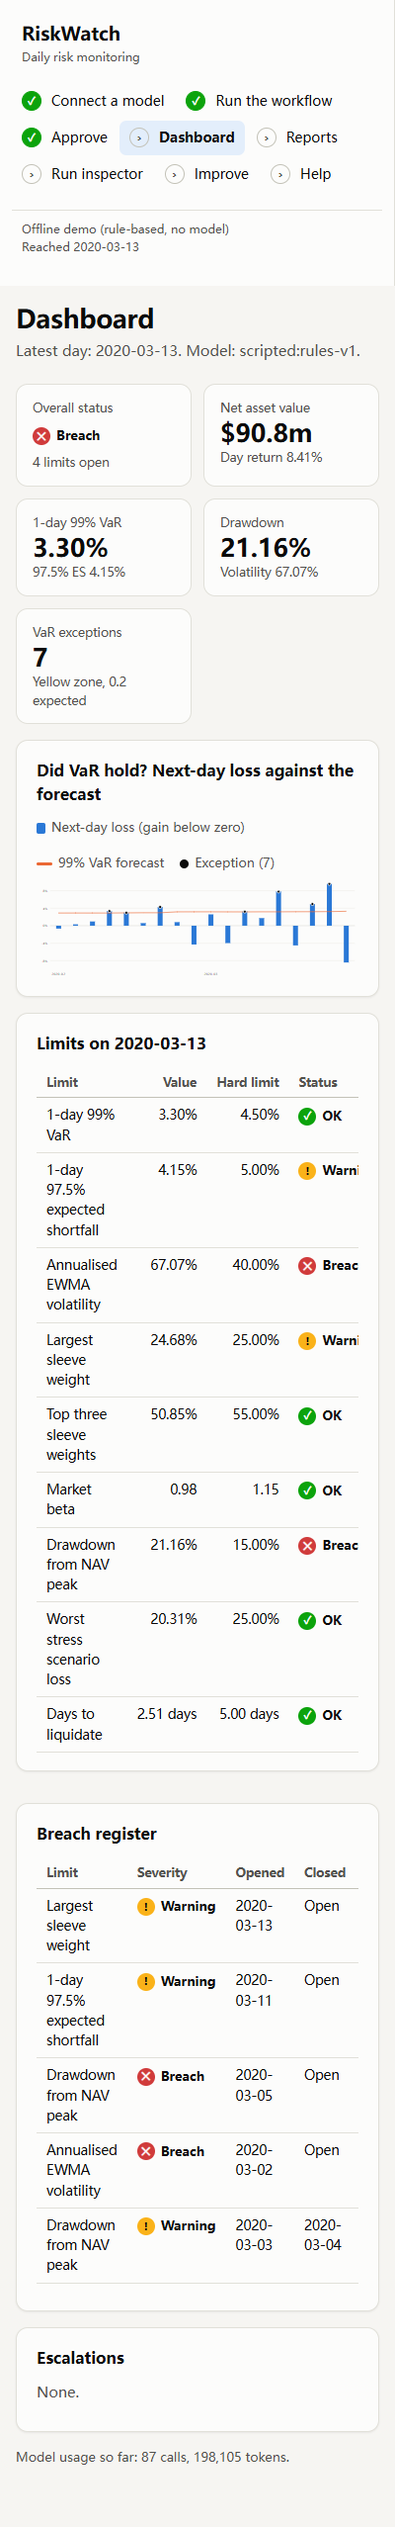
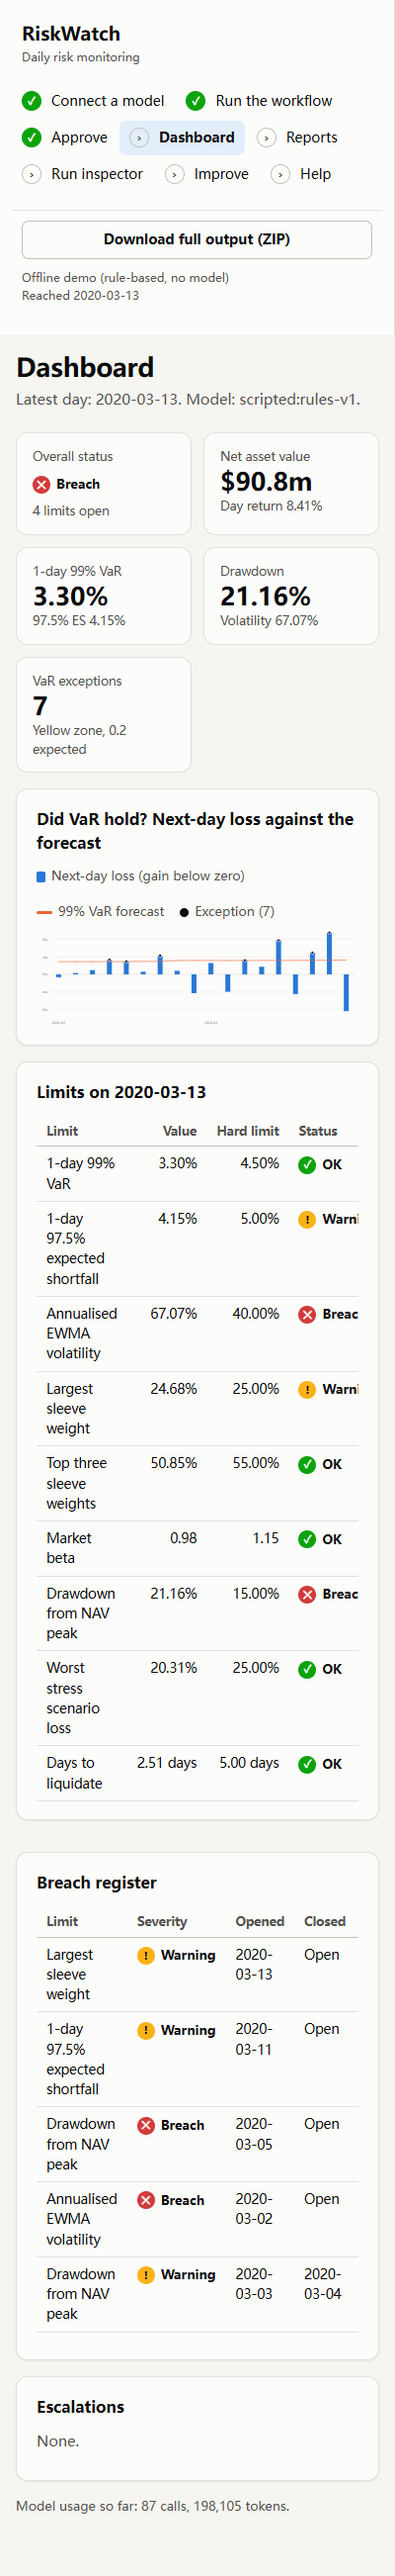
Keep Download full output in the sidebar on every page
It was only on the run-finished panel and the Reports page, so it disappeared once you opened the
Dashboard. Before any run it shows greyed out with a hint. The browser check now downloads from the
sidebar while on the Dashboard.

diff --git a/src/riskwatch/web/static/app.js b/src/riskwatch/web/static/app.js
@@ -147,8 +147,14 @@ function renderNav() {
     ...results.map(([href, label]) => item(href, label, h("span", { class: "step-dot" }, "›"))),
     h("div", { class: "nav-label" }, "More"),
     ...more.map(([href, label]) => item(href, label, h("span", { class: "step-dot" }, "›"))));
+  // Always on screen, so the full output is one click away from any page once a run exists.
+  const download = ran
+    ? h("a", { class: "btn side-download", href: "/api/download", id: "side-download" }, "Download full output (ZIP)")
+    : h("span", { class: "btn side-download off", id: "side-download", "aria-disabled": "true", title: "Available after a run" },
+      "Download full output (ZIP)");
   const foot = document.getElementById("side-foot");
-  foot.replaceChildren(h("div", {}, s ? s.backend : ""), s && s.last_day ? h("div", {}, `Reached ${s.last_day}`) : "");
+  foot.replaceChildren(download, ran ? "" : h("div", { class: "side-hint" }, "Available after a run"),
+    h("div", {}, s ? s.backend : ""), s && s.last_day ? h("div", {}, `Reached ${s.last_day}`) : "");
 }
 
 function renderBanner() {

diff --git a/src/riskwatch/web/static/styles.css b/src/riskwatch/web/static/styles.css
@@ -80,6 +80,10 @@ nav { display: flex; flex-direction: column; gap: 2px; flex: 1; }
 .step-dot.done { background: var(--good); border-color: var(--good); color: #fff; }
 .badge { margin-left: auto; background: var(--critical); color: #fff; border-radius: 10px; font-size: 11px; font-weight: 700; padding: 1px 7px; }
 .side-foot { padding: 10px; font-size: 12px; color: var(--ink-2); border-top: 1px solid var(--line); overflow-wrap: anywhere; }
+.side-download { display: block; width: 100%; text-align: center; margin-bottom: 10px; font-size: 13px; }
+.side-download.off { opacity: .5; cursor: not-allowed; margin-bottom: 4px; }
+.side-download.off:hover { background: none; }
+.side-hint { margin-bottom: 10px; text-align: center; }
 
 main { flex: 1; min-width: 0; padding: 26px 32px 60px; }
 #page { max-width: 1120px; margin: 0 auto; }

diff --git a/scripts/browser_check.py b/scripts/browser_check.py
@@ -47,6 +47,7 @@ def main() -> int:
 
             # 1. Connect
             page.goto(URL)
+            expect(page.locator("#side-download")).to_have_attribute("aria-disabled", "true")
             expect(page.get_by_role("heading", name="Connect a model")).to_be_visible()
             page.wait_for_timeout(1500)
             shot("1-connect")
@@ -93,6 +94,10 @@ def main() -> int:
             # Results
             page.locator("nav a[href=\"#/dashboard\"]").click()
             expect(page.get_by_text("Did VaR hold?")).to_be_visible()
+            # The download stays in the sidebar on every page, not only on Reports.
+            with page.expect_download() as from_sidebar:
+                page.locator("#side-download").click()
+            assert from_sidebar.value.suggested_filename == "riskwatch-output.zip"
             box = page.locator(".chart-wrap svg").bounding_box()
             page.mouse.move(box["x"] + box["width"] * 0.7, box["y"] + box["height"] * 0.5)
             expect(page.locator(".tip")).to_be_visible()

diff --git a/GETTING_STARTED.md b/GETTING_STARTED.md
@@ -73,7 +73,8 @@ going, because later days don't wait for you.
 
 - **Dashboard:** the latest position, how VaR held up, limits, the breach register and escalations.
 - **Reports:** every memo, breach notice, restatement and monthly review.
-- **Download full output (ZIP):** everything released, a summary, and the full audit tables.
+- **Download full output (ZIP):** everything released, a summary, and the full audit tables. The button is at the
+  bottom of the left-hand menu on every page.
 - **Run inspector:** for any day, its stages, the 13 automated checks, data decisions and what each agent said.
 
 ## Optional: test a change
